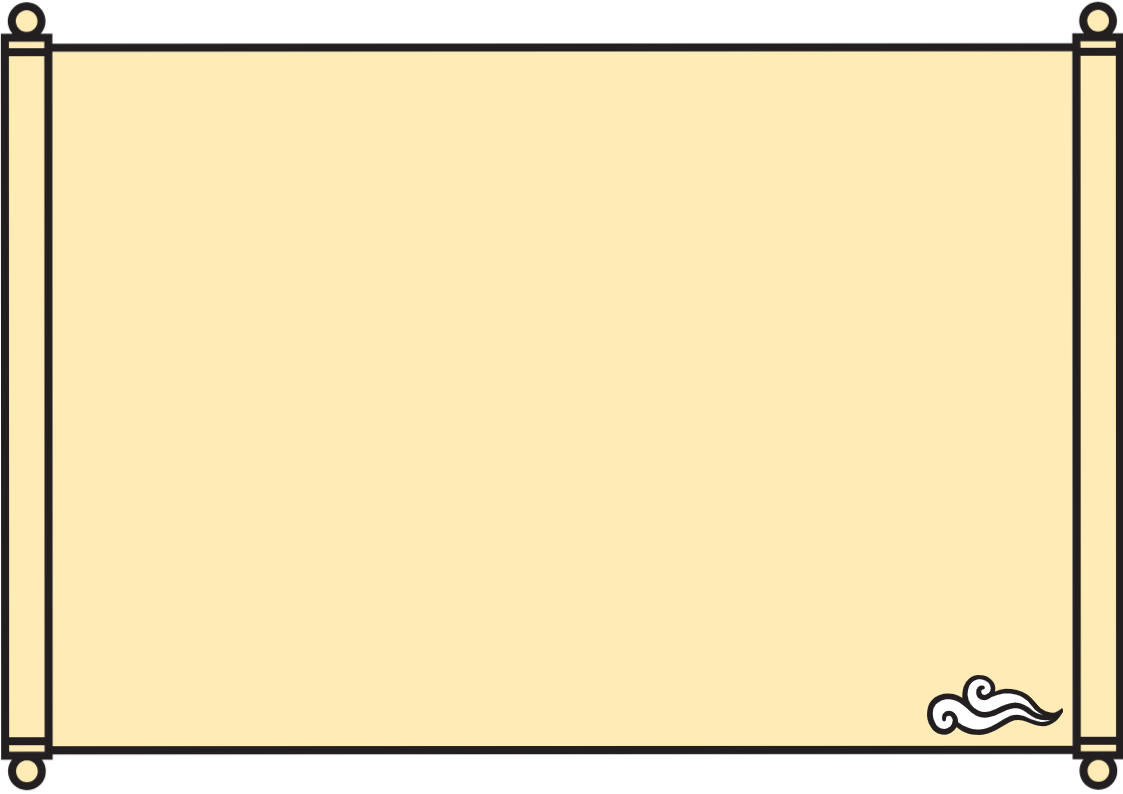
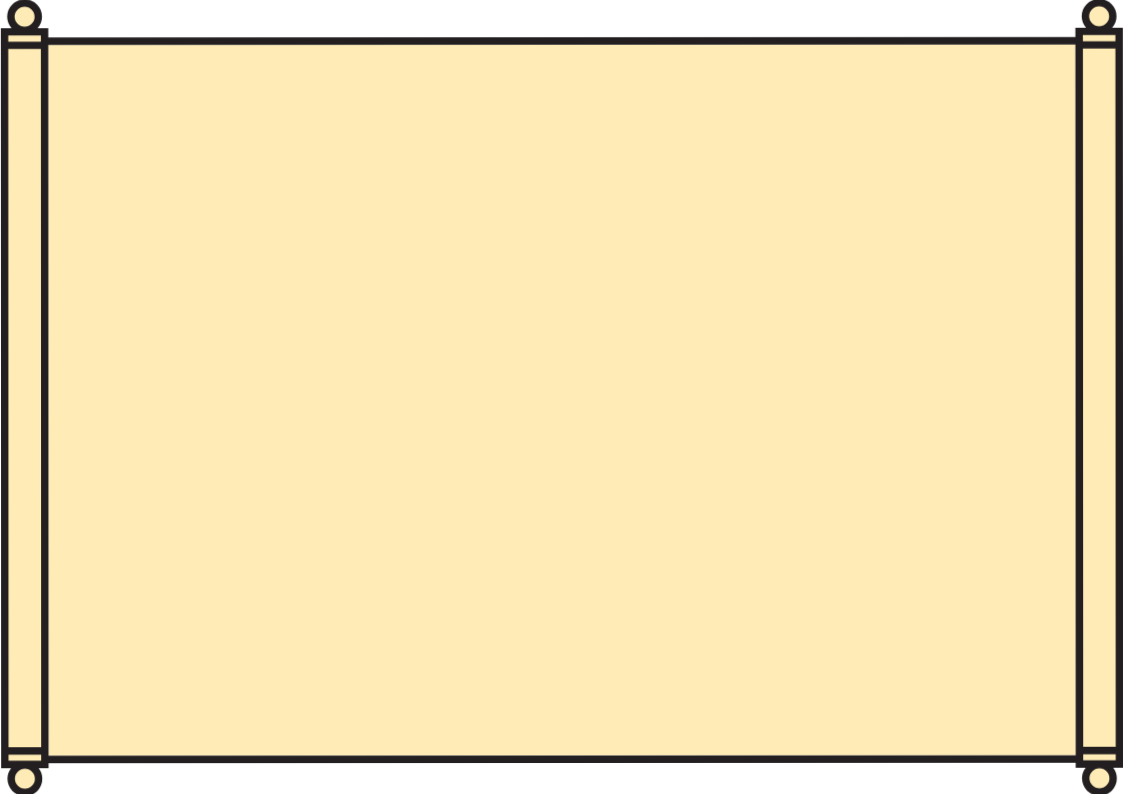
다녀간 장소 CSS 추가

Changed region(s): [[0.0, 0.0, 1.0, 1.0]]

diff --git a/FrontEnd/untact_korea/src/styles/Content.css b/FrontEnd/untact_korea/src/styles/Content.css
@@ -44,12 +44,27 @@ path:hover {
     background-image: url("../styles/divBackground.png");
 }
 
+.title h1 {
+    width: 100%;
+    font-size: 6em;
+    text-align: center;
+    margin: 0;
+}
+
 #history {
-    margin: 48px 5%;
+    padding: 2% 10% 5% 10%;
+    background-size: 100% 100%;
+    background-repeat: no-repeat;
+    background-image: url("../styles/divBackground.png");
+    text-align: center;
 }
 
 #history h2 {
+    border-top: solid 7px;
+    border-bottom: solid 7px;
     text-align: center;
+    width: 100%;
+    font-size: 4em;
 }
 
 #history .histories {
@@ -76,4 +91,3 @@ path:hover {
 .full-map {
     border: solid 7px;
 }
-
